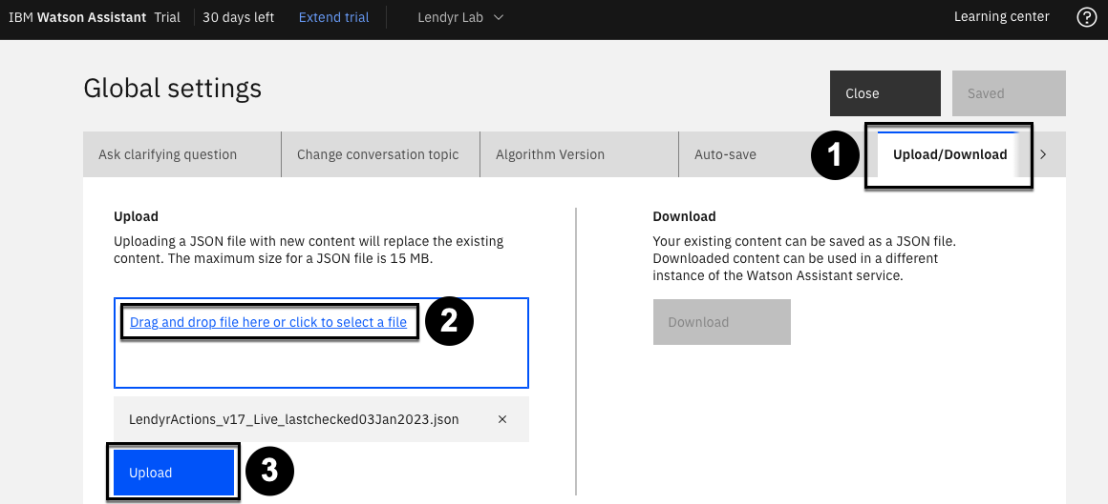
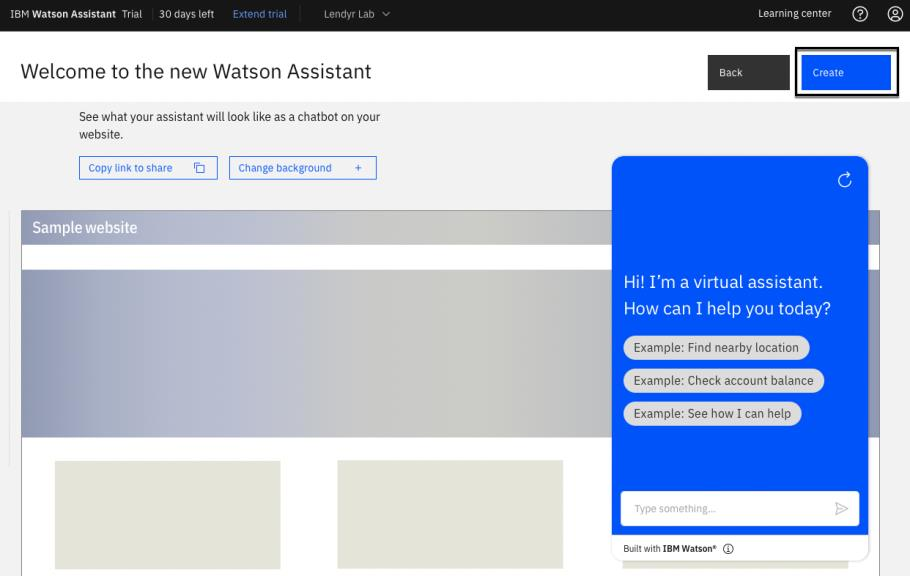
Update watsonx Assistant L4 Lab 1 (#304)

diff --git a/content/Watsonx/Assistant/101.md b/content/Watsonx/Assistant/101.md
@@ -1,7 +1,7 @@
 ---
-title: '101: Hands-on Lab'
+title: '101: Explore an Example Assistant'
 timeToComplete: 30
-updated: 2023-03-31
+updated: 2024-01-24
 ---
 
 # 101: IBM watsonx Assistant Hands-on Lab
@@ -13,11 +13,15 @@ perspectives.
 
 ## End user's perspective
 
-Imagine you are an end user, and explore this virtual assistant build with watsonx Assistant:
+Imagine you are an end user. Let's explore the Lendyr Bank virtual assistant, built with watsonx Assistant: [Lendyr.com](http://lendyr.com/).
 
-[Lendyr.com](http://lendyr.com/)
+Click on the **Tell, Do, & Show** tile and then click on the assistant in the bottom-right corner. Work through the Tell, Do, & Show tour.
 
-Try running through some of these conversations with the assistant:
+![](./images/101/image-001.png)
+
+![](./images/101/image-002.png)
+
+You can also try running through some of these conversations with the assistant:
 
 | Conversation #1                                                                                                                       | Conversation #2                                                                                                    | Conversation #3                                                                                                                          | Conversation #4            |
 | ------------------------------------------------------------------------------------------------------------------------------------- | ------------------------------------------------------------------------------------------------------------------ | ---------------------------------------------------------------------------------------------------------------------------------------- | -------------------------- |
@@ -36,15 +40,46 @@ Take note of the features and functionality you see in the assistant:
 
 ## Setting up watsonx Assistant
 
-### Option 1: IBM Technology Zone
+### Option 1: IBM TechZone
 
-If you are a business partner with access to TechZone, create a sandbox environment using the [Watson Enterprise collection](https://techzone.ibm.com/collection/watson-enterprise).
+If you are an IBMer or an IBM business partner, you should provision watsonx Assistant on IBM TechZone. Navigate to the [Watson Enterprise collection](https://techzone.ibm.com/collection/watson-enterprise/environments) on TechZone, and click on the **watsonx Assistant, Discovery with watsonx.ai** tile to reserve an environment. Sections 1-6 of this lab will only use watsonx Assistant. However, in Section 7, you will also need Watson Discovery and watsonx. That’s the reason you are selecting the environment with these three products:
+
+![](./images/101/image-003.png)
+
+This will take you to the reservations page.
+1. Enter a **name** for the reservation that is meaningful to you.
+2. Under **Purpose**, select the **Practice / Self-Education** tile.
+3. Enter a **Purpose description**.
+4. Select a **Preferred geography**.
+5. You can leave **End date and time** as-is, as it defaults to the maximum of 2 days. 
+6. Accept the **Terms & Conditions**.
+7. Click **Submit**.
+
+![](./images/101/image-004.png)
+
+You will soon receive an email that your environment is provisioning. It usually takes between 10 and 15 minutes for the provisioning to finish. Once you receive an email notifying you that your TechZone environment is ready, open it and click **View My Reservations**:
+
+![](./images/101/image-005.png)
+
+This will take you to the **My reservations** page on TechZone. Click on your newly provisioned instance tile:
+
+![](./images/101/image-006.png)
+
+Your TechZone instance is shown, along with the links to your Assistant, Discovery, and watsonx.ai instances. Click the **watsonx Assistant URL**:
+
+![](./images/101/image-007.png)
+
+Then, as shown on the image below, click the **Launch watsonx Assistant** button to open the watsonx Assistant home page:
+
+![](./images/101/image-008.png)
+
+Next, you can skip forward to the **Configure your Assistant** section below. An onboarding wizard will walk you through creating your first assistant.
 
 ### Option 2: IBM Cloud
 
-Starting by navigating to [IBM Cloud](https://cloud.ibm.com)
+If you are not an IBMer or IBM Business Partner, or if you prefer to use your personal IBM Cloud account to provision watsonx Assistant, start by navigating to [IBM Cloud](https://cloud.ibm.com).
 
-![](./images/101/image-003.png)
+![](./images/101/image-009.png)
 
 If you already have a Trial, Plus, or Enterprise instance of watsonx Assistant, open it up and
 create a new assistant. If you don’t have an instance of watsonx Assistant, follow these
@@ -53,7 +88,7 @@ instructions to create a free Trial instance.
 To create a free Trial instance, Search for "watsonx Assistant" in the top search bar and click
 **watsonx Assistant** under **Catalog Results**.
 
-![](./images/101/image-004.jpg)
+![](./images/101/image-010.png)
 
 Now we can create our assistant by:
 
@@ -62,7 +97,7 @@ Now we can create our assistant by:
 3. Agree to the **Terms and Conditions**.
 4. Click on the **Create** button in the lower-right area of the page.
 
-![](./images/101/image-005.jpg)
+![](./images/101/image-011.png)
 
 Now let's validate the creation of our new assistant:
 
@@ -70,9 +105,9 @@ Now let's validate the creation of our new assistant:
 2. Expand the **AI/Machine Learning** section
 3. You should now be able to see your newly created watsonx Assistant
 
-![](./images/101/image-006.jpg)
+![](./images/101/image-012.png)
 
-![](./images/101/image-007.png)
+![](./images/101/image-013.png)
 
 > Note: The service you create may have a suffix, like “watsonx Assistant-hu.” These names are
 > identifiers for you to distinguish between the multiple services you may create. You can change
@@ -80,83 +115,127 @@ Now let's validate the creation of our new assistant:
 
 To launch watsonx Assistant, click on the new service you created. From here, clicking the **Launch watsonx Assistant** button will launch to the watsonx Assistant homepage.
 
-![](./images/101/image-008.jpg)
+![](./images/101/image-014.png)
 
-1. Input a name you like into the **Assistant name** field.
+## Configure your Assistant
+
+1. Input any name you like into the **Assistant name** field.
 2. Provide a short description in the **Description field** (this is optional).
 3. Click the **Next** button in the top-right corner of the page.
 
-![](./images/101/image-010.jpg)
+![](./images/101/image-016.png)
 
 On the following screen, make these selections:
 
-1. Select **Web** as this assistant will be accessed via a web browser.
+1. Select **Web** as this assistant will be accessed via a web browser channel.
 2. Select **Banking and financial services** as the industry.
 3. Select **Developer** as our builder persona.
 4. Select **I want to provide confident answers to common questions** as the main purpose of the assistant.
-5. Now click the **Next** button on the top-right
+5. Click the **Next** button in the top-right.
 
-![](./images/101/image-013.jpg)
+![](./images/101/image-019.png)
 
 The next screen will now allow you to customize the look and feel of your assistant. Customize now or feel free to just click the **Next** button again in the top-right.
 
-![](./images/101/image-014.jpg)
+![](./images/101/image-020.png)
 
-This screen allows you to preview the web chat of the assistant. Feel free to click the **Create** button in the top-right.
+This screen allows you to preview the web chat of the assistant. Click the **Create** button in the top-right.
 
-![](./images/101/image-015.jpg)
+![](./images/101/image-021.png)
 
-Finally, as shown on the image below, you will see the Home page of your new assistant.
+Finally, as shown in the image below, you will see the **Home** page of your new assistant.
 
-![](./images/101/image-016.png)
+![](./images/101/image-022.png)
 
 ## Builder's perspective
 
-Let's explore the persona of the Builder.
+Let's explore the persona of a Builder. A conversation builder is responsible for writing and maintaining existing conversational flows. They have likely worked in customer service, market research, or a relevant focus area that led into this role.
 
-To explore this perspective, you will create a copy of the Lendyr demo assistant in the new assistant that's been created.
+To explore their perspective, you will create a copy of the Lendyr demo assistant in the new assistant that's been created.
 
-From the Home page, click on the **Actions** tab on the left-side. This is where content is written that the virtual assistant will be trained to answer.
+From the Home page, click on the **Actions** tab on the left-side. This is where a builder writes the content that a virtual assistant will be trained to answer.
 
-![](./images/101/image-018.jpg)
+![](./images/101/image-024.png)
 
 > Actions are a representation of the tasks you want your assistant to help your customers with.
 > Each action contains a series of steps that represent individual exchanges with a customer.
 > Actions allow you to build an Assistant that can easily converse with a customer with **no
 > coding** knowledge needed!
 
-Now click the **Global settings** cog icon in the top-right. We will add some predefined actions by:
+Click the **Global settings** cog icon in the top-right. Let's add some predefined actions:
 
-1. Clicking the **Upload/Download** tab.
-2. Download [this json file](https://raw.githubusercontent.com/CloudPak-Outcomes/Watson-Asst-Lab/main/action-skills/LendyrActions_v17_Live_lastchecked03Jan2023.json).
-3. Then proceed to upload it into the web page by selecting the file or dropping it in.
-4. Then click the **Upload** button.
-5. If a modal displays click **Upload and replace**.
+1. Click the **Upload/Download** tab.
+2. Download [this json file](https://raw.githubusercontent.com/CloudPak-Outcomes/Watson-Asst-Lab/main/action-skills/LendyrActions_v17_Live_lastchecked03Jan2023.json) and select it for upload.
+3. Click the **Upload** button.
 
-![](./images/101/image-021.png)
+![](./images/101/image-027.png)
 
-![](./images/101/image-022.png)
+If a modal window displays, click **Upload and replace**.
+
+![](./images/101/image-028.png)
 
 A toast notification should now display confirming your upload. Finally, close the global settings window.
 
-![](./images/101/image-023.jpg)
+![](./images/101/image-029.png)
 
-Your assistant is now a copy of the Lendyr.com assistant!
+Your assistant is now a copy of the Lendyr.com assistant! Feel free to spend a few minutes exploring the Actions page.
+
+Note that the builder’s background is not technical. What does this mean for watsonx Assistant?
+watsonx Assistant is purposefully designed to be accessible to anyone, whether they have 
+technical skills or not. It is organized around a simple yet powerful conceptual model for 
+conversations. This model makes it easy for non-technical builders to author conversational 
+flows, and it scales well into large and complex use cases.
 
 ## Developer's perspective
 
+Let's explore the perspective of a Developer. A developer is responsible for supporting technical solutions and innovation with a focus on customer care. They likely have a background in or were asked to explore new AI technology, leading into this project.
+
 Developers can work in the Actions page too, but they often focus on more technical features. From the **Home** page, open the left menu and click **Integrations** on the bottom-left.
 
-![](./images/101/image-026.jpg)
+![](./images/101/image-032.png)
 
 watsonx Assistant Integrations add various channels, extensions, and third-party integrations to easily configure and deploy your assistant. Spend a few minutes exploring the Integrations page.
 
-Earlier, we noted that developers spend more time on technical features than on the Actions page, where builders create new conversational flows. Why is that? Since watsonx Assistant is purposefully designed to make it easy for non-technical builders to author conversational flows, developers can focus in on the parts of a virtual assistant that require their technical expertise, like integrations with other applications.
+Developers spend more time on technical features than on the Actions page, where builders create new conversational flows. Why is that? Since watsonx Assistant is purposefully designed to make it easy for non-technical builders to author conversational flows, developers can focus in on the parts of a virtual assistant that require their technical expertise, like integrations with other applications.
 
 ## Product manager's perspective
 
-Finally, let's explore the perspective of a product manager.
+Finally, let's explore the perspective of a product manager. A product manager is responsible for the overall success of the assistants deployed by the organization. They track assistant performance, lead assistant builder and developer teams, and collaborate with all assistant stakeholders.
 
 Product managers can work in the Actions and Integrations pages, but they typically focus on overall success, continuous improvement, and expansion. Using the left menu explore the **Publish**, **Environments**, and **Analyze** pages.
 
-![](./images/101/image-028.jpg)
+
+**Publishing** is a way to maintain a healthy lifecycle management process. You can create 
+incremental versions of your content over time, making it easier to manage deployment of 
+changes and roll back (revert) to prior versions if necessary.
+
+**Environments** are spaces that contain a version of your content and settings. All assistants come 
+pre-set with a Draft and a Live environment. The Draft environment lets you make changes and 
+test your assistant, while the Live environment holds the current published version.
+
+The **Analyze** page provides a summary of the interactions between users and your assistant. This 
+will give you an in-depth view of what your customers are looking for from your assistant as 
+well as how well your assistant is currently solving their needs.
+
+![](./images/101/image-034.png)
+
+## Conclusion
+
+As you explored watsonx Assistant through these different personas, you noted that developers 
+spend more time on technical integrations, and builders spend more time on the non-technical 
+authoring experience.
+
+The product manager really likes that watsonx Assistant encourages this specialization of labor. 
+Why? Because it’s *expensive* to staff a large technical team to maintain a virtual assistant! With 
+watsonx Assistant, a product manager can staff a team with both non-technical builders, which
+focus on conversational flows, and developers, which focus on the technical implementation and 
+integrations. In this way, the product manager can build, maintain, and scale a great solution with 
+a smaller team, driving down their total cost of ownership.
+
+As you learn more about watsonx Assistant in this lab, you will also notice that watsonx 
+Assistant makes it easy for builders and developers to collaborate. For example, developers can 
+hand off the conversation flow work to builders, who can then build the flows without any code. 
+This removes the dependencies between builders and developers, allowing them to work together 
+*faster*. Teams collaborate more effectively with watsonx Assistant, accelerating everyone’s time 
+to value.
+
